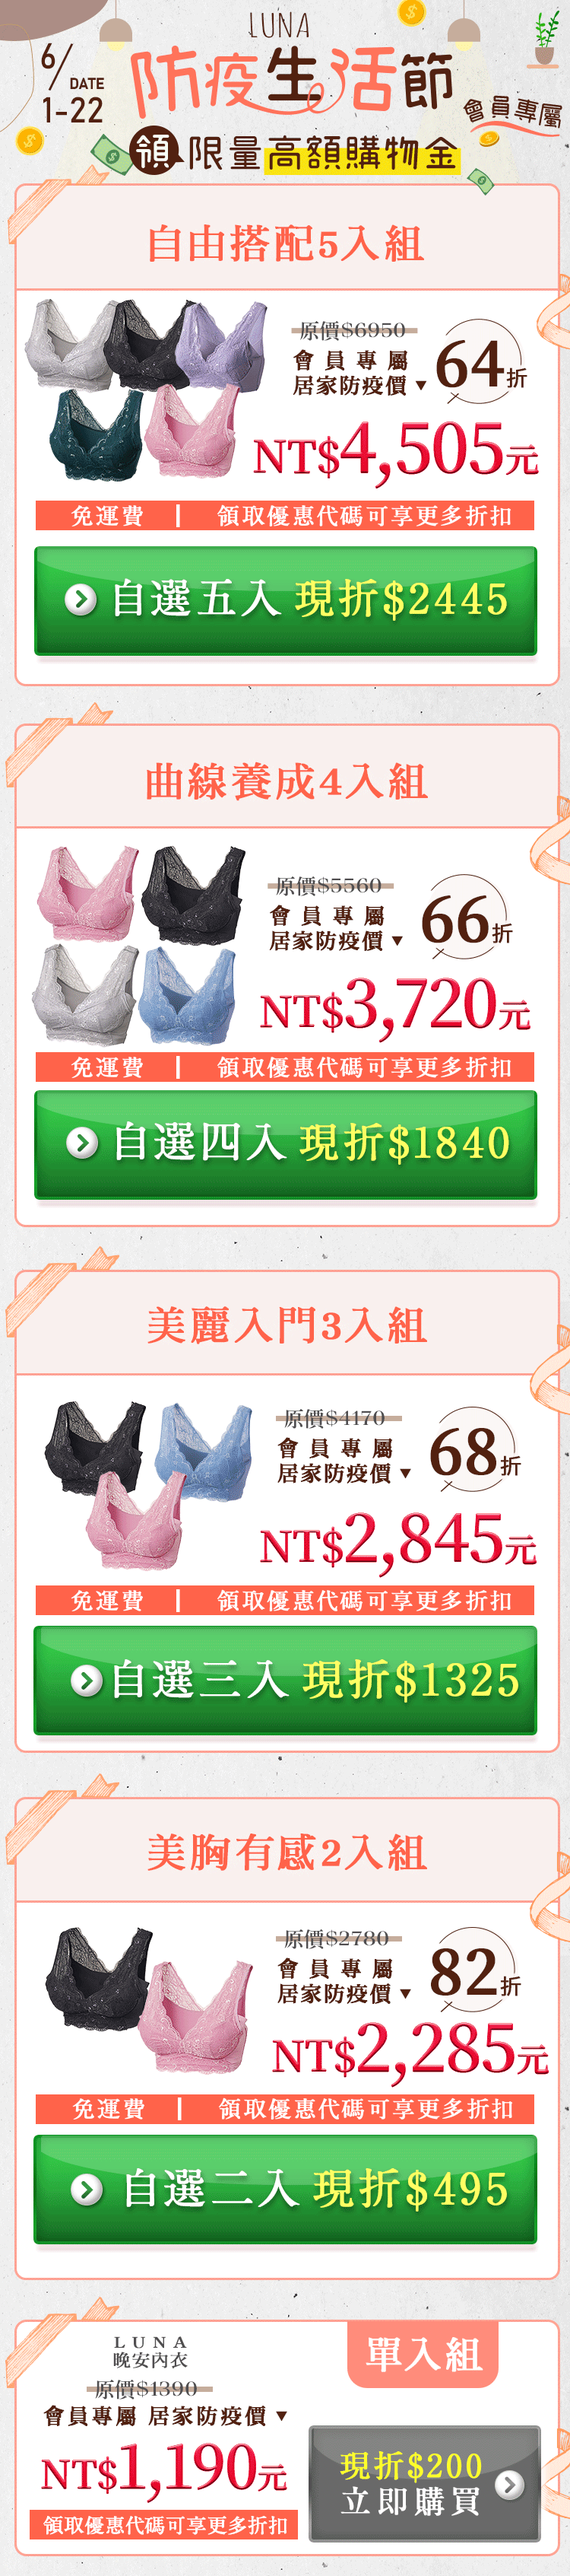
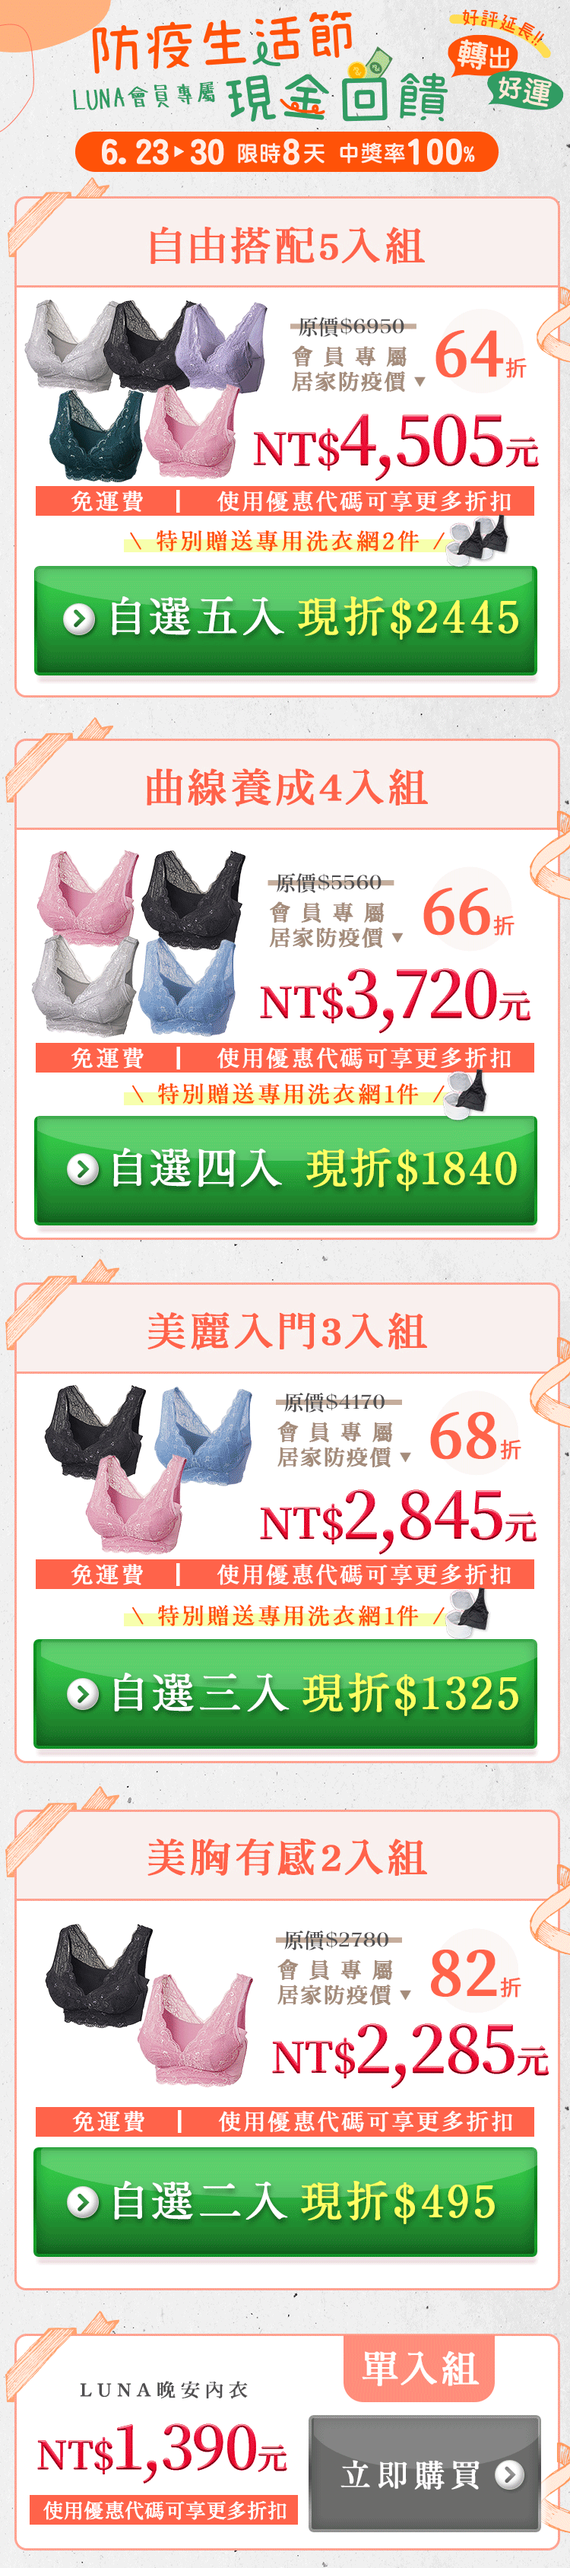
20220622_add lucky wheel

diff --git a/index.html b/index.html
@@ -12,7 +12,7 @@
         gtag('config', 'UA-186799454-1');
     </script>
 
-    <title>LUNA限時５天｜突發快閃⚡領限量購物金｜加碼再送LINE POINTS💯</title>
+    <title>LUNA年中618💯狂歡到月底！限期８天轉出好運｜中獎率100%！</title>
     <meta name="Description"
         content="日本專利設計小胸福星，輕鬆打造美胸ω歐美伽曲線，美胸不再是大CUP的專利！穿著錯誤尺寸的內衣或是受地心引力影響都會使ω歐美伽曲線變形。只是穿著Luna 晚安內衣改善了ω歐美伽曲線的長度，視覺上的效果就完全不一樣！？鈴木奈奈穿著3個月後成功讓A罩杯看起來有C罩杯！">
     <meta name="keywords" content="luna,luna內衣,晚安內衣,美媞內衣,夜晚美胸,Luna美媞晚安內衣,小胸內衣,睡覺 內衣,睡眠 內衣">
@@ -37,10 +37,12 @@
     <link rel="stylesheet" href="https://use.fontawesome.com/releases/v5.7.2/css/all.css"
         integrity="sha384-fnmOCqbTlWIlj8LyTjo7mOUStjsKC4pOpQbqyi7RrhN7udi9RwhKkMHpvLbHG9Sr" crossorigin="anonymous">
     <link rel="stylesheet" href="css/style.css" type="text/css" media="all">
-    <link rel="stylesheet" href="css/nav.css" type="text/css" media="all">
+    <!-- <link rel="stylesheet" href="css/nav.css" type="text/css" media="all"> -->
     <link href="https://fonts.googleapis.com/css?family=Noto+Serif+TC" rel="stylesheet">
     <script src="https://code.jquery.com/jquery-3.4.1.min.js"
         integrity="sha256-CSXorXvZcTkaix6Yvo6HppcZGetbYMGWSFlBw8HfCJo=" crossorigin="anonymous"></script>
+    <link rel="stylesheet" href="https://cdnjs.cloudflare.com/ajax/libs/animate.css/4.1.1/animate.min.css" />
+
     <!-- ▲自由編集箇所▲ -->
     <!-- 編集削除禁止※ACCESS　JAVASCRIPT※編集削除禁止 -->
     <link href=/VCommonFiles/app.min.js rel=preload as=script>
@@ -79,36 +81,21 @@
                     <!-- main pc -->
                     <div class="fv">
                         <div class="banner_box">
-                            <a href="#LINEPOINT">
+                            <a href="#wheel">
                                 <img src="images/01_banner.png" alt="">
                             </a>
                         </div>
                         <img src="images/02_fv.png" alt="">
-                        <div id="LINEPOINT" class="LINEPOINT">
-                            <img src="images/LINEPOINT_5day.png" alt="">
-                            <div class="LINEPOINT_coupon" style="position: relative;">
-                                <img src="images/LINEPOINT.png" alt="">
-                                <img src="images/LINEPOINT_btn.png" alt="" class="LINEPOINT_btn" alt=""
-                                    style="position: absolute;bottom:27%;right:9%;width:25%;" data-toggle="modal"
-                                    data-target="#LINEPOINTmodal">
-                            </div>
-                        </div>
-                        <div id="coupon">
-                            <div class="coupon01" style="position: relative;">
-                                <img src="images/coupon01_no.png" alt="">
-                            </div>
-                            <div class="coupon02" style="position: relative;">
-                                <img src="images/coupon02.png" alt="">
-                                <img src="images/coupon_btn.png" class="coupon02_btn" alt=""
-                                    style="position: absolute;bottom:27%;right:9%;width:25%;" data-toggle="modal"
-                                    data-target="#couponmodal">
-                            </div>
-                            <div class="coupon03" style="position: relative;">
-                                <img src="images/coupon03.png" alt="">
-                                <img src="images/coupon_btn.png" class="coupon03_btn" alt=""
-                                    style="position: absolute;bottom:27%;right:9%;width:25%;" data-toggle="modal"
-                                    data-target="#couponmodal">
-                            </div>
+                        <div id="wheel" class="luckywheel_box">
+                            <img src="images/wheel/wheel_bg.png" alt="" style="position: relative;">
+                            <img class="luckywheel_wheel" src="images/wheel/wheel.png" alt=""
+                                style="position: absolute;">
+                            <img class="luckywheel_200 animate__animated animate__heartBeat animate__infinite"
+                                src="images/wheel/wheel_200.png" alt="" style="position: absolute;display: none;">
+                            <img class="luckywheel_point" src="images/wheel/wheel_point.png" alt=""
+                                style="position: absolute;">
+                            <img class="luckywheel_btn" src="images/wheel/wheel_btn.png" alt=""
+                                style="position: absolute;" data-toggle="modal" data-target="#exampleModal_2">
                         </div>
                         <img src="images/03_sales.png" alt="">
                         <img src="images/04_set05.png" alt="">
@@ -163,25 +150,25 @@
                     </div>
                 </div>
 
-                <!-- Modal coupon複製優惠-->
-                <div class="modal fade" id="couponmodal" tabindex="-1" role="dialog" aria-labelledby="couponLabel"
-                    aria-hidden="true">
-                    <div class="modal-dialog modal-ml" role="document">
-                        <div class="modal-content" style="background-color: #FFEDEE;">
+                <!-- Modal 抽獎優惠-->
+                <div class="modal fade" id="exampleModal_2" tabindex="-1" role="dialog"
+                    aria-labelledby="exampleModalCenterTitle" aria-hidden="true" data-show="false">
+                    <div class="modal-dialog" role="document">
+                        <div class="modal-content">
                             <div class="modal-header">
-                                <h4 class="modal-title" id="couponLabel">恭喜您獲得<span id="money"></span>防疫生活節購物金！</h4>
-                                <button type="button" class="close" data-dismiss="modal" aria-label="Close">
+                                <h4 class="modal-title" id="exampleModalCenterTitle">恭喜您獲得$200防疫生活節購物金！</h4>
+                                <button type="button" class="close wheel_close" data-dismiss="modal" aria-label="Close">
                                     <span aria-hidden="true">&times;</span>
                                 </button>
                             </div>
-                            <div class="modal-body mx-auto" style="text-align: center;">
-                                <h5>現在就複製以下優惠代碼，<br>
-                                    於購物車「優惠代碼」欄位輸入<br>
-                                    即可享網頁顯示價格再折<span id="coupon_money"></span><br>
-                                    數量有限，用完為止。</h5>
+                            <div class="modal-body">
+                                <h5>現在就複製以下優惠代碼，於購物車「優惠代碼」欄位輸入<br>
+                                    即可享網頁顯示價格再折$200！</h5>
+                                <h2 style="color:red" id="copy_2">
+                                    L2206BE200BN1
+                                </h2>
                                 <br>
-                                <h4>優惠代碼：<span id="copy"></span></h4>
-                                <a href="javascript:void(0)" onclick="copyEvent('copy')">
+                                <a href="javascript:void(0)" onclick="copyEvent('copy_2')">
                                     <h4>→點我複製優惠代碼</h4>
                                 </a>
                             </div>
@@ -198,22 +185,6 @@
                         alert("分享資訊已複製");
                     }
                 </script>
-
-                <!-- Modal LINEPOINT-->
-                <div class="modal fade" id="LINEPOINTmodal" tabindex="-1" role="dialog" aria-labelledby="LINEPOINTLabel"
-                    aria-hidden="true">
-                    <div class="modal-dialog modal-lg" role="document">
-                        <div class="modal-content" style="background-color: transparent;border:none;">
-                            <div class="modal-body mx-auto" style="text-align: center;">
-                                <img src="images/lottery-2.png" alt="" style="width:100%;position: relative;">
-                                <button type="button" class="close" data-dismiss="modal" aria-label="Close"
-                                    style="position: absolute;top:7%;right:8%;">
-                                    <span aria-hidden="true">&times;</span>
-                                </button>
-                            </div>
-                        </div>
-                    </div>
-                </div>
                 <!-- ▲自由編集箇所▲ -->
             </div>
             <!-- contents_standard End -->

diff --git a/js/all.js b/js/all.js
@@ -7,28 +7,40 @@ $(document).ready(function () {
         }, 900);
     });
 
-    $('a[href="#LINEPOINT"]').click(function (e) {
+    $('a[href="#wheel"]').click(function (e) {
         e.preventDefault();
         $('html , body').animate({
-            scrollTop: $('#LINEPOINT').offset().top,
+            scrollTop: $('#wheel').offset().top,
         }, 900);
     });
 
-    // coupon折扣
-    $('.coupon01_btn').click(function () {
-        $('#money').text(`$250`);
-        $('#coupon_money').text(`$250`);
-        $('#copy').text(`L2502206BEBN`);
+    $(".luckywheel_btn").click(function (e) {
+        e.preventDefault();
+        $('.luckywheel_wheel').rotate({
+            // angle: 0, // 旋轉指定角度(沒有動畫)
+            animateTo: 2160, // 旋轉指定角度(有動畫)
+            // duration: 1000, // 動畫持續時間
+            // bind: {}, // 綁定事件
+            // step: function () { }, // 在動畫每一步都會執行
+            callback: function(){   
+                $("#exampleModal_2").attr({
+                    style: "display: block;"
+                }); 
+                $("body").addClass("modal-open");
+                $("#exampleModal_2").addClass("show");
+                $(".luckywheel_box .luckywheel_200").attr({
+                    style: "display: block;"
+                }); 
+            }// 完成後執行
+        });
     });
-    $('.coupon02_btn').click(function () {
-        $('#money').text(`$200`);
-        $('#coupon_money').text(`$200`);
-        $('#copy').text(`L2206BE200BN`);
-    });
-    $('.coupon03_btn').click(function () {
-        $('#money').text(`$150`);
-        $('#coupon_money').text(`$150`);
-        $('#copy').text(`L2206BEBN150`);
+    $("button.wheel_close").click(function (e) { 
+        e.preventDefault();
+        $("#exampleModal_2").attr({
+            style: "display: none;"
+        }); 
+        $("body").removeClass("modal-open");
+        $("#exampleModal_2").addClass("hide");
     });
     // 點01_Xmas_btn會連到並"展開"id="Xmas"
     // $('.Xmas_btn').click(function (e) {

diff --git a/css/style.css b/css/style.css
@@ -269,18 +269,40 @@ img.anniversary_2{
     }
 }
 
-.coupon01,.coupon02,.coupon03,.LINEPOINT_coupon{
+.luckywheel_box{
     position: relative;
     width:640px;
     margin:0 auto;
 }
-.coupon01_btn:hover,.coupon02_btn:hover,.coupon03_btn:hover,.LINEPOINT_btn:hover{
-    opacity: 0.8; 
+
+.luckywheel_box .luckywheel_wheel{
+    position: absolute;
+    width: 85%;
+    left: 8%;
+    top: 22.5%;
+}
+.luckywheel_box .luckywheel_btn{
+    position: absolute;
+    width: 30%;
+    top: 42%;
+    left: 35%;
     cursor: pointer;
+}
+.luckywheel_box .luckywheel_point{
+    position: absolute;
+    width: 9%;
+    top: 18%;
+    left: 46%;
+}
+.luckywheel_box .luckywheel_200{
+    position: absolute;
+    width: 31%;
+    top: 24.5%;
+    left: 35%;
 }
 
 @media screen and (max-width: 768px){
-    .coupon01,.coupon02,.coupon03,.LINEPOINT_coupon{
+    .luckywheel_box{
         width:100%;
     }
 }
